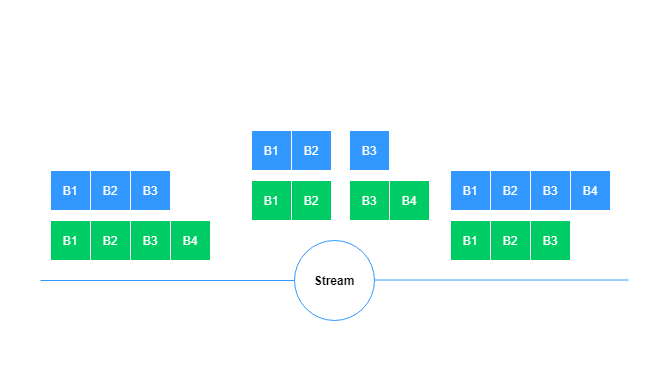
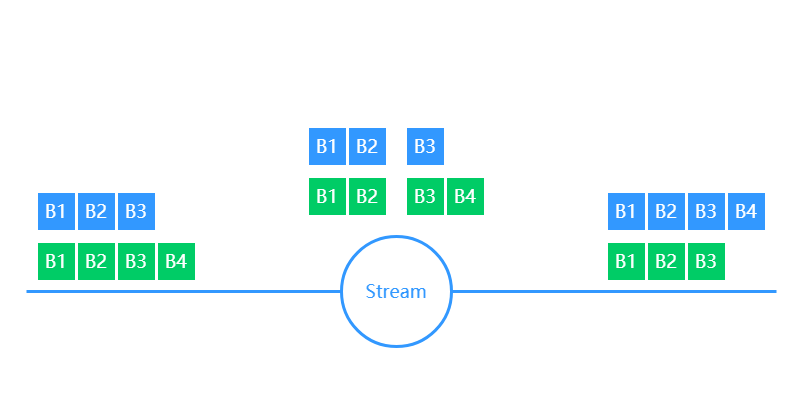
update high resolution image

Changed region(s): [[0.0298, 0.2965, 0.9836, 0.8895], [0.4769, 0.6226, 0.5067, 0.6523]]

diff --git a/other-features/exception.md b/other-features/exception.md
@@ -14,26 +14,26 @@
 
 1. 对于单个Buffer输出错误时，调用Buffer::SetError接口，设置错误的详细信息，错误即可发出。
 
-```cpp
-Status Flowunit::Process(std::shared_ptr<DataContext> data_ctx) {
-   auto outputs = data_ctx->Output("out1");
-   outputs->Build({1});
-   auto buffer1 = outputs->At(0);
-   buffer1->SetError("Custom.Downloader.NoSuchFile", "File xxxx is not exist");
-   return STATUS_OK;
-}
-```
+   ```cpp
+   Status Flowunit::Process(std::shared_ptr<DataContext> data_ctx) {
+      auto outputs = data_ctx->Output("out1");
+      outputs->Build({1});
+      auto buffer1 = outputs->At(0);
+      buffer1->SetError("Custom.Downloader.NoSuchFile", "File xxxx is not exist");
+      return STATUS_OK;
+   }
+   ```
 
 1. 对于多个Buffer同时设置错误时，调用BufferList::SetError接口，设置错误的详细信息，错误即可发出。
 
-```cpp
-Status Flowunit::Process(std::shared_ptr<DataContext> data_ctx) {
-   auto outputs = data_ctx->Output("out1");
-   outputs->Build({1, 1});
-   outputs->SetError("Custom.Crop.OutOfBound", "Crop area width xxx is great than image width xxx");
-   return STATUS_OK;
-}
-```
+   ```cpp
+   Status Flowunit::Process(std::shared_ptr<DataContext> data_ctx) {
+      auto outputs = data_ctx->Output("out1");
+      outputs->Build({1, 1});
+      outputs->SetError("Custom.Crop.OutOfBound", "Crop area width xxx is great than image width xxx");
+      return STATUS_OK;
+   }
+   ```
 
 ## 异常的传递
 
@@ -45,56 +45,56 @@ Status Flowunit::Process(std::shared_ptr<DataContext> data_ctx) {
 
 1. 明确的声明当前功能单元支持异常处理
 
-cpp功能单元在实现中开启
+   cpp功能单元在实现中开启
 
-```cpp
-MODELBOX_FLOWUNIT(ExampleFlowUnit, desc) {
-   desc.SetExceptionVisible(true);
-}
-```
+   ```cpp
+   MODELBOX_FLOWUNIT(ExampleFlowUnit, desc) {
+      desc.SetExceptionVisible(true);
+   }
+   ```
 
-python功能单元在功能单元配置文件中开启
+   python功能单元在功能单元配置文件中开启
 
-```toml
-exception_visible = true
-```
+   ```toml
+   exception_visible = true
+   ```
 
 1. 编排节点时，在节点配置上设置需要异常处理
 
-```graphviz
-get_exception[..., is_exception_visible=true]
-```
+   ```graphviz
+   get_exception[..., is_exception_visible=true]
+   ```
 
 1. 获取异常
 
-cpp功能单元中获取
+   cpp功能单元中获取
 
-```cpp
-Status GetException::Process(std::shared_ptr<DataContext> data_ctx) {
-   auto inputs = data_ctx->Input("in1");
-   for (auto buffer : inputs) {
-      if (buffer->HasError()) {
-         MBLOG_ERROR << "error is " << buffer->GetErrorCode() << ", " << buffer->GetErrorMsg();
+   ```cpp
+   Status GetException::Process(std::shared_ptr<DataContext> data_ctx) {
+      auto inputs = data_ctx->Input("in1");
+      for (auto buffer : inputs) {
+         if (buffer->HasError()) {
+            MBLOG_ERROR << "error is " << buffer->GetErrorCode() << ", " << buffer->GetErrorMsg();
+         }
       }
    }
-}
-```
+   ```
 
-python功能单元中获取
+   python功能单元中获取
 
-```python
-def process(self, data_ctx):
-   inputs = data_ctx.input("in1")
-   for input in inputs:
-      if buffer.has_error():
-         print("error is " + buffer.get_error_code() + ", " + buffer.get_error_msg())
-```
+   ```python
+   def process(self, data_ctx):
+      inputs = data_ctx.input("in1")
+      for input in inputs:
+         if buffer.has_error():
+            print("error is " + buffer.get_error_code() + ", " + buffer.get_error_msg())
+   ```
 
 ## 异常捕获中的可见性说明
 
 之前数据流中提到，expand和condition会使得数据流的层级标记下降一次，这个层级不仅影响了匹配，也作用于异常的捕获。核心点是，高层级的错误，低层不可见；低层级的错误，高层可见。
 
-![exception_capture alt rect_w_400](../../assets/images/figure/conception-feature/features/exception_capture.png)
+![exception_capture alt rect_w_400](../assets/images/figure/conception-feature/features/exception_capture.png)
 
 上图中，异常可见情况如下：
 

diff --git a/use-modelbox/develop-mode.md b/use-modelbox/develop-mode.md
@@ -4,7 +4,7 @@
 
 ModelBox的开发视图如下，图中绿色的部分是开发者可以自定义扩展的部分。
 
-![sdk alt rect_w_800](../../assets/images/figure/develop/sdk.png)
+![sdk alt rect_w_800](../assets/images/figure/develop/sdk.png)
 
 ModelBox开发套件包含如下部分：
 
@@ -62,22 +62,23 @@ ModelBox开发套件包含如下部分：
 
 1. 标准模式
 
+    如下图所示，标准模式应用的组成部分。
+
     ![modelbox-app-mode1 alt rect_w_400](../assets/images/figure/get-start/app_develop_mode1.png)
 
-    如上图所示，此模式下AI应用被设计为两个部分：ModelBox部分和应用部分。
-    * ModelBox部分：这种模式下AI应用的主入口由ModelBox管理，启动时，首先进入ModelBox部分，会读取ModelBox配置，加载配置中选择的插件列表，初始化并启动所有的插件，至此完成ModelBox部分的主要工作。插件在ModelBox部分起着重要的作用，被设计来完成应用部分的管理工作。ModelBox内置了两个插件：ModelBox插件，用于加载流程图来启动应用部分，具体请见[ModelBox插件](../plugins/modelbox-plugin.md); Editor插件，用于开发时可视化管理应用部分的工作，如执行样例应用、可视化编排流程图等，具体请见[Editor插件](../plugins/editor.md)。
+    这种模式下AI应用的主入口由ModelBox管理，启动时，ModelBox会读取ModelBox配置，加载配置中选择的插件列表，初始化并启动所有的插件。插件在ModelBox部分起着重要的作用，被设计来完成应用部分的管理工作。ModelBox内置了两个插件：ModelBox插件，用于加载流程图来启动应用部分，具体请见[ModelBox插件](../plugins/modelbox-plugin.md); Editor插件，用于开发时可视化管理应用部分的工作，如执行样例应用、可视化编排流程图等，具体请见[Editor插件](../plugins/editor.md)。
 
-    * 应用部分：此部分是应用的全部逻辑承载，开发者首先通过流程图配置文件描述整个应用的数据处理过程，然后实现流程图中缺少的功能单元，完成整个应用。
+    应用的全部逻辑承载编排在流程图配置文件中，开发者首先通过流程图配置文件描述整个应用的数据处理过程，然后实现流程图中缺少的功能单元，完成整个应用。
 
 1. SDK模式
 
-    ![modelbox-app-mode2 alt rect_w_500](../assets/images/figure/get-start/app_develop_mode2.png)
+    如下图所示，SDK模式应用的组成部分。
 
-    如上图所示，此模式下AI应用被设计为两个部分：业务部分和算法部分。
+    ![modelbox-app-mode2 alt rect_w_400](../assets/images/figure/get-start/app_develop_mode2.png)
 
-    * 业务部分：在这个模式下，取代了ModelBox部分，作为AI应用的主入口，启动后，由业务部分通过ModelBox提供的API管理算法部分的初始化、启动及调用。
+    这种模式下，开发者控制AI应用的主入口。启动后，由流程图调用部分通过ModelBox SDK提供的API管理流程图的初始化、启动及数据交互。
 
-    * 算法部分：算法相关的执行逻辑。此部分中，开发者可以通过API静态的编排逻辑、使用已有的流程图配置文件、或者通过solution使用预置的逻辑，逻辑加载后会生成Flow对象，可以通过对象提供的数据输入输出接口完成对算法的调用，Flow可以存在多个，即可以加载多个算法逻辑。
+    流程图调用部分中，开发者可以通过API进行流程逻辑编排、加载已有的流程图配置文件、或者通过solution使用预置的逻辑等方式构建流程图，流程图构建由Flow对象完成，可以通过Flow对象提供的数据输入输出接口完成对算法的调用，Flow可以存在多个，即可以加载多个流程图逻辑。
 
 ## 应用模式选择
 

diff --git a/basic-conception/stream.md b/basic-conception/stream.md
@@ -10,7 +10,7 @@
 
 ## stream构成
 
-![stream alt rect_w_1280](../../assets/images/figure/conception-feature/conception/stream_construct.png)
+![stream alt rect_w_800](../assets/images/figure/conception-feature/conception/stream_construct.png)
 
 Stream由数据部分和元信息部分构成，数据部分由多个有序的Buffer承载，元信息则记录在数据流上，数据流的产生功能单元在第一个数据产生前可以写入流的元信息，数据流处理功能单元只能读取数据流的元信息。
 
@@ -20,35 +20,35 @@ Stream由数据部分和元信息部分构成，数据部分由多个有序的Bu
 
 ### 数据流匹配
 
-![why_need_match alt rect_w_1280](../../assets/images/figure/conception-feature/conception/stream_match.png)
+![why_need_match alt rect_w_800](../assets/images/figure/conception-feature/conception/stream_match.png)
 
 上图介绍了一种典型的数据流匹配场景，Image Source功能单元功能是产生图片，Inference功能单元的功能是输入图片输出图片中包含人的框，DrawBox功能单元的功能是接受一个输入图像，和输入检测框，输出一个绘制了检测框的图像。对DrawBox来说图像和检测框结果之间就存在匹配关系，两个数据流均来自ImageSource，且两个数据流中的Buffer数量一致，则可以正确完成匹配的过程。
 
 ### 数据流经过Normal功能单元
 
-![normal-process alt rect_w_1280](../../assets/images/figure/conception-feature/conception/stream_normal_process.png)
+![normal-process alt rect_w_800](../assets/images/figure/conception-feature/conception/stream_normal_process.png)
 
 两个数据流进入节点处理，功能单元的batch设置为2，可以看到数据被划分为最多两个一组，多组数据同时开始处理，生成的结果数据与输入一致，并且整理成独立的输出流输出。
 
 #### 数据流经过Stream功能单元
 
-![normal-process alt rect_w_1280](../../assets/images/figure/conception-feature/conception/stream_stream_process.png)
+![normal-process alt rect_w_800](../assets/images/figure/conception-feature/conception/stream_stream_process.png)
 
 两个数据流进入节点处理，功能单元的batch设置为2，可以看到数据被划分为最多两个一组，不同的数据流同时处理，同一个数据流的多组batch串行处理，生成的结果数据与输入数量可以不一致。
 
 #### 数据流经过Condition功能单元
 
-![normal-process alt rect_w_1280](../../assets/images/figure/conception-feature/conception/stream_condition_process.png)
+![normal-process alt rect_w_800](../assets/images/figure/conception-feature/conception/stream_condition_process.png)
 
 单个数据流进入节点处理，功能单元一次处理一个buffer，多个buffer同时处理，每个输出buffer选择一个端口，输出的总量与单端口输入的数量一致。
 
 #### 数据流经过Expand功能单元
 
-![normal-process alt rect_w_1280](../../assets/images/figure/conception-feature/conception/stream_expand_process.png)
+![normal-process alt rect_w_800](../assets/images/figure/conception-feature/conception/stream_expand_process.png)
 
 单个数据流进入节点处理，功能单元一次处理一个buffer，多个buffer同时处理，每个Buffer展开成一个子数据流。
 
 ### 数据流经过Collapse功能单元
 
-![normal-process alt rect_w_1280](../../assets/images/figure/conception-feature/conception/stream_collapse_process.png)
+![normal-process alt rect_w_800](../assets/images/figure/conception-feature/conception/stream_collapse_process.png)
 多个子数据流进入节点处理，功能单元一次处理一个子流，多个子流的数据同时处理，每个子流只能合并输出一个Buffer。

diff --git a/basic-conception/flowunit.md b/basic-conception/flowunit.md
@@ -14,7 +14,7 @@
 
 在ModelBox中，功能单元支持不同的实现方式以适用于不同场景的使用。
 
-![flowunit-component alt rect_w_1280](../../assets/images/figure/conception-feature/conception/flowunit_impl.png)
+![flowunit-component alt rect_w_600](../assets/images/figure/conception-feature/conception/flowunit_impl.png)
 
 | 实现方式    | 说明                                              |
 | ---------- | ----------------------------------------          |
@@ -29,7 +29,7 @@
 
 为方便功能单元的扩展和复用，它被设计为插件的方式进行加载，如下简要介绍其加载的过程。
 
-![flowunit-process alt rect_w_1280](../../assets/images/figure/framework-conception/flowunit-process.png)
+![flowunit-process alt rect_w_1280](../assets/images/figure/framework-conception/flowunit-process.png)
 
 FlowUnit插件的加载流程如上图：
 
@@ -116,13 +116,13 @@ FlowUnit插件的加载流程如上图：
 
 * **例子**
 
-    ![car-detect](../../assets/images/figure/solution/car-detect.png)
+    ![car-detect](../assets/images/figure/solution/car-detect.png)
 
     车辆跟踪推理DEMO，当发现车辆时，对车辆画框图提示。
 
 * **Flow流程图**
 
-    ![car-detect-flow alt rect_w_600](../../assets/images/figure/framework-conception/car-detect-flow.png)
+    ![car-detect-flow alt rect_w_600](../assets/images/figure/framework-conception/car-detect-flow.png)
 
     流程说明：
     1. 将文件数据发送给VideoDemux，VideoDemux将数据解开packet后发送给VideoDecoder。
